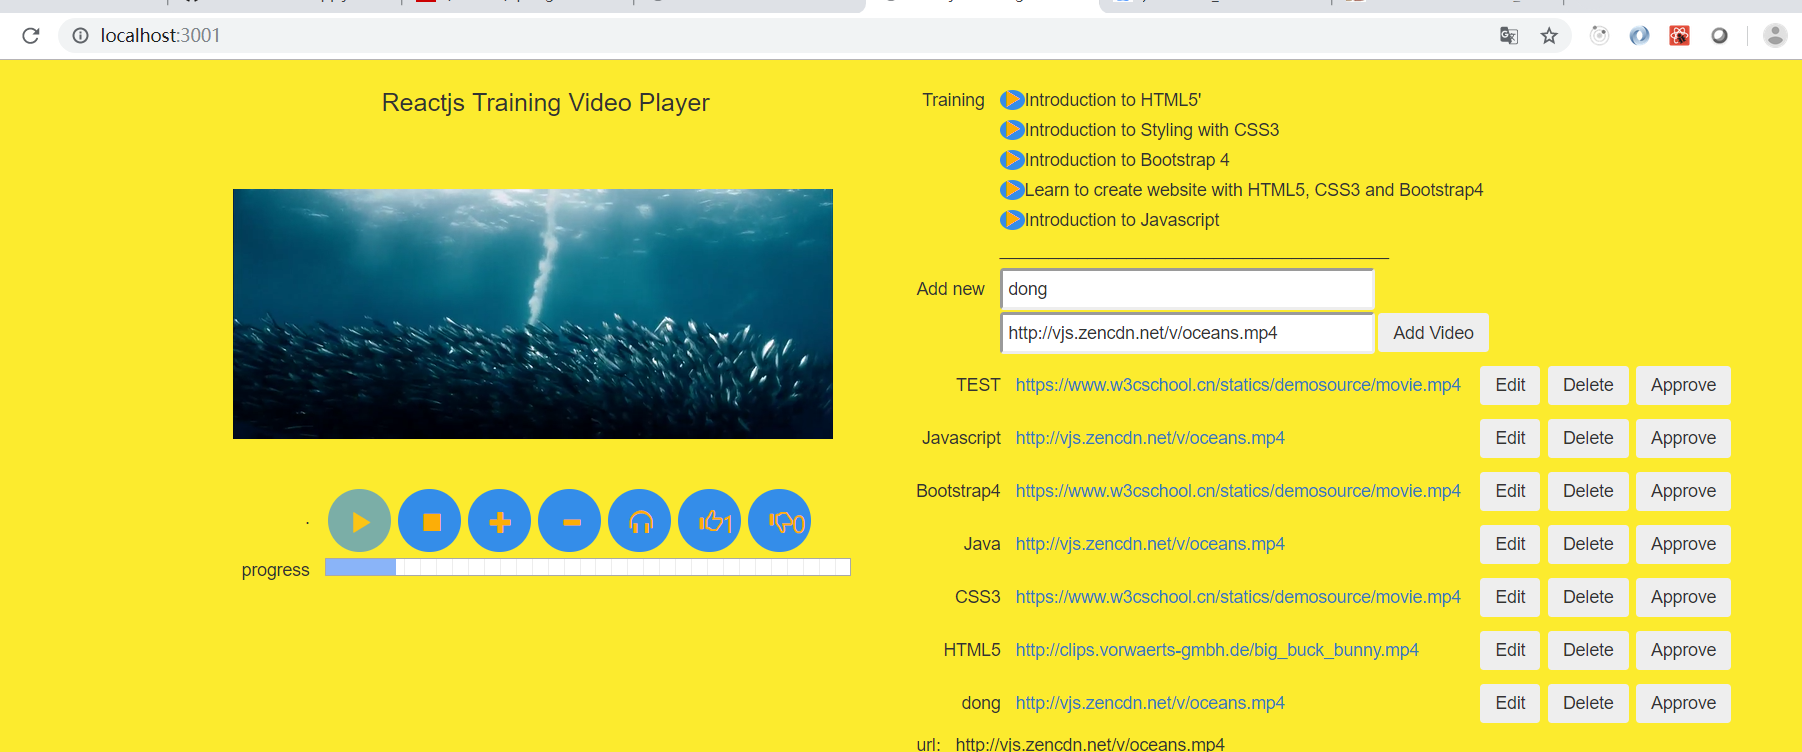
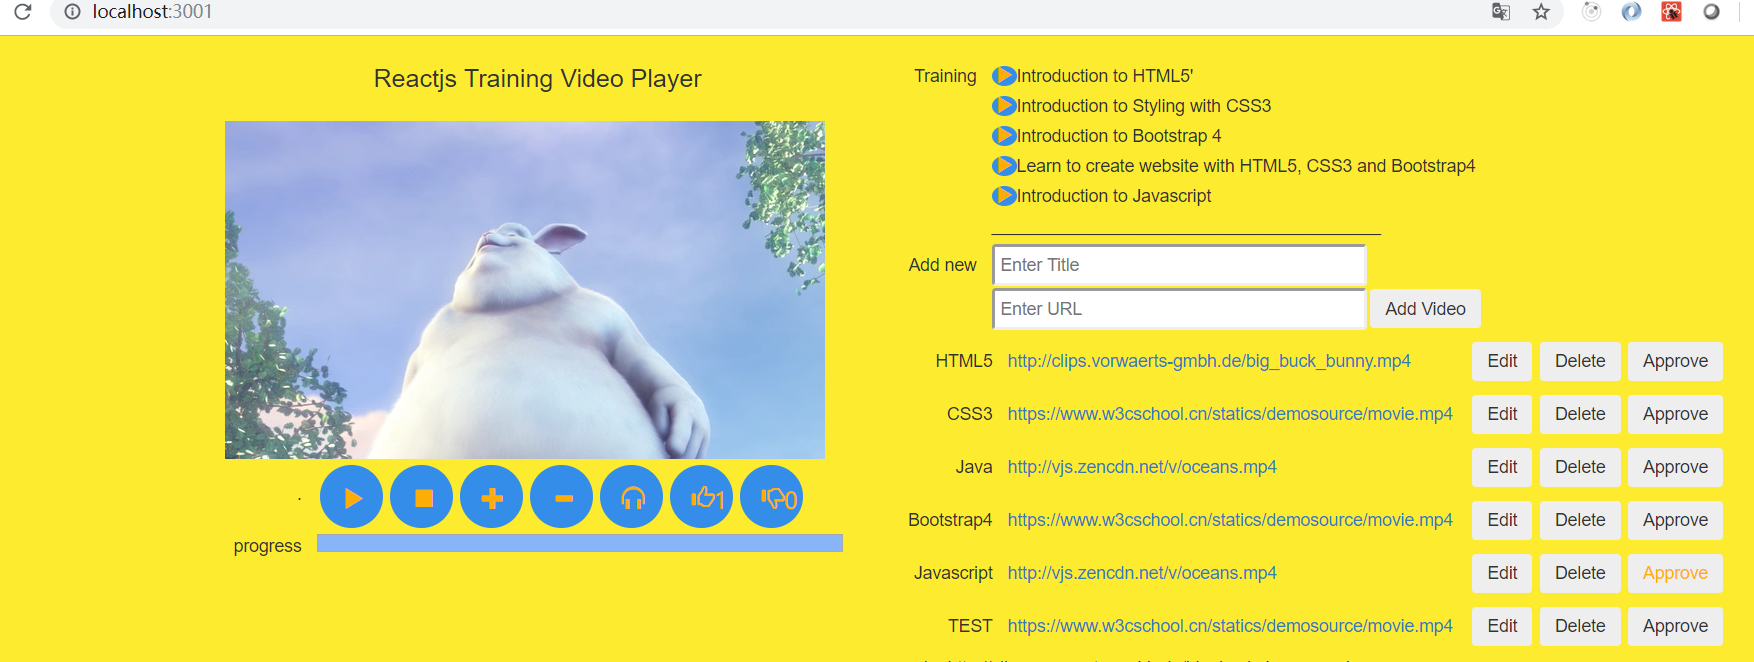
disabled

diff --git a/lab03/react-training-player/src/home/App.js b/lab03/react-training-player/src/home/App.js
@@ -58,7 +58,6 @@ class App extends Component {
      })
       const message = 'loaded and starting load json data....'
       console.log(message)
-    
   }
   playPause = () => {
     this.setState({ playing: !this.state.playing })
@@ -170,12 +169,10 @@ class App extends Component {
               onProgress={this.onProgress}             
             />
           </div>
-
           <table><tbody>
             <tr>
               <th>.</th>
-              <td>
-                
+              <td>                
                 <button  className="radius1 btn btn-blue btn-lg" onClick={this.playPause} disabled={playing ? true : false}>
                  <span id="play-pause-icon" className="blue glyphicon glyphicon-play"></span></button>              
                 <button  className='radius1 btn btn-blue btn-lg'  onClick={this.stop}>
@@ -294,7 +291,8 @@ class App extends Component {
                  {palylist.url}
                </a ></td>
                <PlayList id ={palylist.id}
-               url ={palylist.url}
+               url ={palylist.url} 
+               approved={palylist.approved} 
                title ={palylist.title}></PlayList>
                </tr>
              )}

diff --git a/lab03/react-training-player/src/conmponets/PlayList.js b/lab03/react-training-player/src/conmponets/PlayList.js
@@ -64,12 +64,13 @@ export default class PlayList extends Component {
     const id = this.props.id;
     const url = this.props.url;
     const title = this.props.title;
+    const approved = this.props.approved;
     return (
               // <div className ='item' >
               <td  className ='item'>
               <button onClick={() => this.edit(id,url,title)}>Edit</button>
               <button onClick={() => this.delete(id,url,title)}>Delete</button>
-              <button onClick={() => this.approve(id,url,title)}>Approve</button>              
+              <button title={approved ? 'Disabled(Had Approved)' : 'You can approve.'} className ={approved ? 'gray' : 'blue'} disabled={approved ? true : false} onClick={() => this.approve(id,url,title)}>Approve</button>              
               </td>
     )
   }
